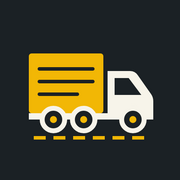
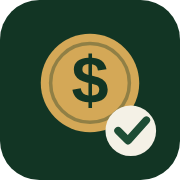
Add files via upload

diff --git a/index.html b/index.html
@@ -2,24 +2,24 @@
 <html lang="es"><head>
 <meta charset="utf-8"><meta name="viewport" content="width=device-width,initial-scale=1">
 <title>Saldos a cobrar</title>
-<link rel="manifest" href="manifest.json"><meta name="theme-color" content="#14202B">
+<link rel="manifest" href="manifest.json"><meta name="theme-color" content="#123524">
 <link rel="apple-touch-icon" href="icono-180.png">
 <link href="https://fonts.googleapis.com/css2?family=Barlow:wght@400;500;600&family=Barlow+Condensed:wght@600;700&display=swap" rel="stylesheet">
 <style>
-:root{--navy:#14202B;--navy2:#22313F;--amber:#B45309;--amber2:#F59E0B;--bg:#EEF1F4;--card:#fff;--ink:#14202B;--mut:#64748B;--line:#D9DFE6;--bad:#B91C1C;--ok:#15803D}
-@media(prefers-color-scheme:dark){:root{--bg:#0E161D;--card:#1A2631;--ink:#E8EDF2;--mut:#94A3B8;--line:#2B3947;--amber:#F59E0B;--bad:#F87171;--ok:#4ADE80}}
+:root{--navy:#123524;--navy2:#1E4D35;--amber:#8A6A2B;--amber2:#D4A857;--bg:#EEF3EF;--card:#fff;--ink:#10241A;--mut:#64748B;--line:#D5DFD8;--bad:#B91C1C;--ok:#15803D}
+@media(prefers-color-scheme:dark){:root{--bg:#0B1811;--card:#14261C;--ink:#E8EDF2;--mut:#94A3B8;--line:#26402F;--amber:#D4A857;--bad:#F87171;--ok:#4ADE80}}
 *{box-sizing:border-box}body{margin:0;background:var(--bg);color:var(--ink);font:15px/1.45 Barlow,system-ui,sans-serif}
 h1,h2,h3,.cond{font-family:'Barlow Condensed',sans-serif;letter-spacing:.02em;margin:0}
 .hero{background:var(--navy);color:#fff;padding:14px 16px;position:relative;overflow:hidden;display:flex;align-items:center;gap:12px}
 .hero:after{content:"";position:absolute;right:-30px;top:0;bottom:0;width:90px;background:var(--amber2);transform:skewX(-20deg);opacity:.9}
-.hero img{width:40px;height:40px;border-radius:10px}.hero h1{font-size:24px}.hero small{color:#B8C4D0;display:block}
+.hero img{width:40px;height:40px;border-radius:10px}.hero h1{font-size:24px}.hero small{color:#B7CDBF;display:block}
 .hero .who{margin-left:auto;z-index:1;text-align:right;font-size:13px;color:#fff;padding-right:70px}
 .hero .who button{margin-top:2px}
 main{max-width:1100px;margin:0 auto;padding:14px 16px 60px}
 nav{display:flex;gap:8px;flex-wrap:wrap;margin:6px 0 14px}
 .pill,nav button{border:1.5px solid var(--navy2);background:transparent;color:var(--ink);border-radius:999px;padding:7px 16px;font:600 14px Barlow;cursor:pointer}
 nav button.on,.pill.pri{background:var(--navy);color:#fff;border-color:var(--navy)}
-@media(prefers-color-scheme:dark){nav button.on,.pill.pri{background:var(--amber2);color:#14202B;border-color:var(--amber2)}}
+@media(prefers-color-scheme:dark){nav button.on,.pill.pri{background:var(--amber2);color:#123524;border-color:var(--amber2)}}
 .pill.sm{padding:3px 11px;font-size:12.5px}.pill.bad{color:var(--bad);border-color:var(--bad)}
 .card{background:var(--card);border:1px solid var(--line);border-radius:16px;padding:14px;margin-bottom:12px}
 .kpis{display:grid;grid-template-columns:repeat(auto-fit,minmax(170px,1fr));gap:10px;margin-bottom:12px}
@@ -34,7 +34,7 @@ input,select,textarea{font:inherit;color:var(--ink);background:var(--card);borde
 .login{max-width:380px;margin:40px auto;padding:0 16px}.login .card{display:grid;gap:10px}
 .com{border-top:1px solid var(--line);padding:8px 0}.com small{color:var(--mut)}
 .toast{position:fixed;left:50%;bottom:20px;transform:translateX(-50%);background:var(--navy);color:#fff;padding:10px 18px;border-radius:999px;z-index:9}
-.scroll{overflow-x:auto}[hidden]{display:none!important}
+.emp{border-bottom:3px solid var(--amber2);margin:18px 0 10px;padding-bottom:2px}.emp h2{font-size:28px;text-transform:uppercase}.scroll{overflow-x:auto}[hidden]{display:none!important}
 </style></head><body>
 <div id="app"></div><div id="toast" class="toast" hidden></div>
 <script src="config.js"></script>
@@ -72,15 +72,13 @@ function suma(rows,f){return rows.reduce((a,r)=>(f&&!f(r)?a:a+r.importe),0)}
 function porMon(rows){const o={};rows.forEach(r=>o[r.moneda]=(o[r.moneda]||0)+r.importe);return o}
 function bars(items,mon){const mx=Math.max(1,...items.map(i=>Math.abs(i[1])));return `<table>${items.map(i=>`<tr><td style="width:32%">${E(i[0])}</td><td><div class="barbg"><div class="bar" style="width:${Math.max(1,Math.abs(i[1])/mx*100)}%"></div></div></td><td class="n" style="width:28%">${money(i[1],mon)}</td></tr>`).join('')}</table>`}
 function resumen(){
-  const R=S.d.rows,mons=['USD','ARS'].filter(m=>R.some(r=>r.moneda===m)),cl=new Set(R.map(r=>r.cliente));
-  let h='<div class="kpis">';
-  mons.forEach(m=>{const rm=R.filter(r=>r.moneda===m);h+=`<div class="kpi"><b>${money(suma(rm),m)}</b><span>Saldo total ${m}</span></div><div class="kpi"><b class="bad">${money(suma(rm,r=>r.periodo==='Saldo Vencido'),m)}</b><span>Vencido ${m}</span></div>`});
-  h+=`<div class="kpi"><b>${cl.size}</b><span>Clientes con saldo</span></div></div>`;
-  mons.forEach(m=>{const rm=R.filter(r=>r.moneda===m),per={};rm.forEach(r=>per[r.periodo]=(per[r.periodo]||0)+r.importe);
-    const ks=Object.keys(per).sort((a,b)=>a==='Saldo Vencido'?-1:b==='Saldo Vencido'?1:a<b?-1:1);
-    const emp={};rm.forEach(r=>emp[r.empresa]=(emp[r.empresa]||0)+r.importe);
-    const top={};rm.forEach(r=>top[r.cliente]=(top[r.cliente]||0)+r.importe);
-    h+=`<div class="card"><h3>Por vencimiento · ${m}</h3>${bars(ks.map(k=>[k,per[k]]),m)}</div><div class="card"><h3>Por empresa · ${m}</h3>${bars(Object.entries(emp),m)}</div><div class="card"><h3>10 mayores clientes · ${m}</h3>${bars(Object.entries(top).sort((a,b)=>b[1]-a[1]).slice(0,10),m)}</div>`});
+  const R=S.d.rows,emps=[...new Set(R.map(r=>r.empresa))].sort();let h='';
+  emps.forEach(e=>{const re=R.filter(r=>r.empresa===e),mons=['USD','ARS'].filter(m=>re.some(r=>r.moneda===m)),cl=new Set(re.map(r=>r.cliente));
+    h+=`<div class="emp"><h2>${E(e)}</h2></div><div class="kpis">`;
+    mons.forEach(m=>{const rm=re.filter(r=>r.moneda===m);h+=`<div class="kpi"><b>${money(suma(rm),m)}</b><span>Saldo total ${m}</span></div><div class="kpi"><b class="bad">${money(suma(rm,r=>r.periodo==='Saldo Vencido'),m)}</b><span>Vencido ${m}</span></div>`});
+    h+=`<div class="kpi"><b>${cl.size}</b><span>Clientes con saldo</span></div></div>`;
+    mons.forEach(m=>{const top={};re.filter(r=>r.moneda===m).forEach(r=>top[r.cliente]=(top[r.cliente]||0)+r.importe);
+      h+=`<div class="card"><h3>Top 10 saldos · ${E(e)} · ${m}</h3>${bars(Object.entries(top).sort((a,b)=>b[1]-a[1]).slice(0,10),m)}</div>`})});
   $('#v').innerHTML=h||'<div class="card mut">No hay saldos para mostrar.</div>'}
 function clientesAgg(){const m={};S.d.rows.forEach(r=>{const c=m[r.cliente]||(m[r.cliente]={cliente:r.cliente,vendedor:r.vendedor,mon:{},venc:{}});c.mon[r.moneda]=(c.mon[r.moneda]||0)+r.importe;if(r.periodo==='Saldo Vencido')c.venc[r.moneda]=(c.venc[r.moneda]||0)+r.importe});return Object.values(m).sort((a,b)=>(b.mon.USD||0)-(a.mon.USD||0)||(b.mon.ARS||0)-(a.mon.ARS||0))}
 function fmtM(o){return Object.keys(o).map(m=>money(o[m],m)).join(' · ')||'—'}

diff --git a/config.js b/config.js
@@ -1,2 +1,2 @@
 // Pegá acá la URL de la aplicación web de Apps Script (termina en /exec)
-window.COBRANZA_API = 'https://script.google.com/macros/s/AKfycbxwg3lkyMWk0qgk3uS_xWKotU9C-6Qx5Hd3ifD862XGC_Qwb3rXzcIRndz7GSwPHnPR/exec';
+window.COBRANZA_API = '';
